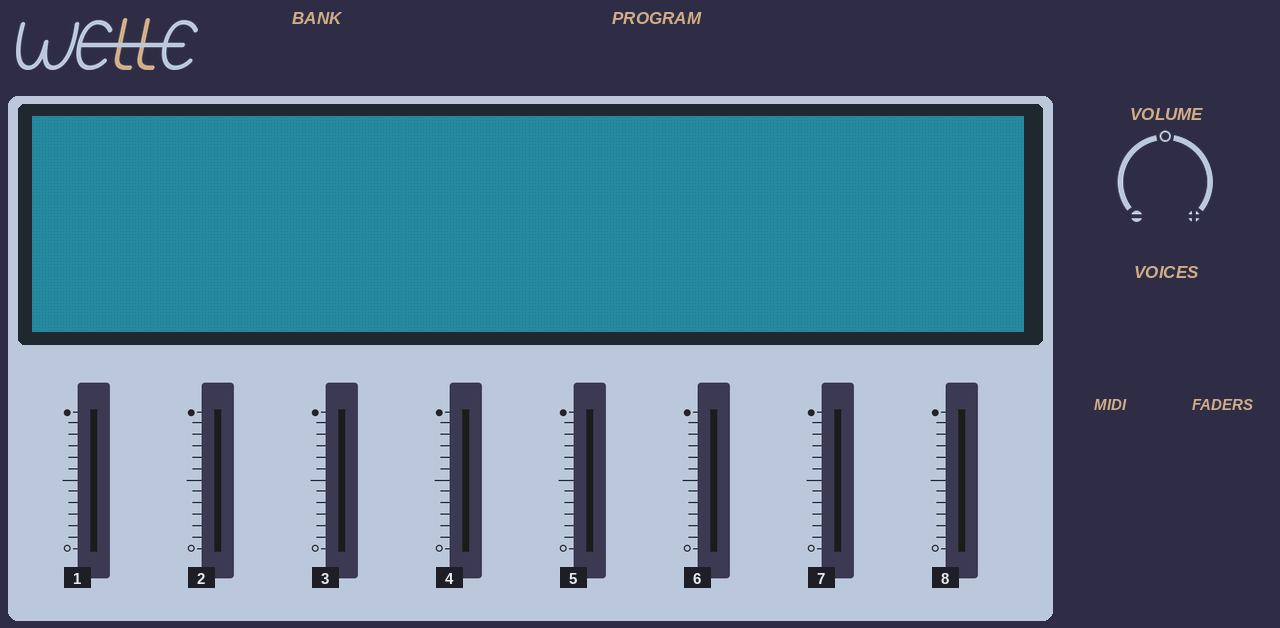
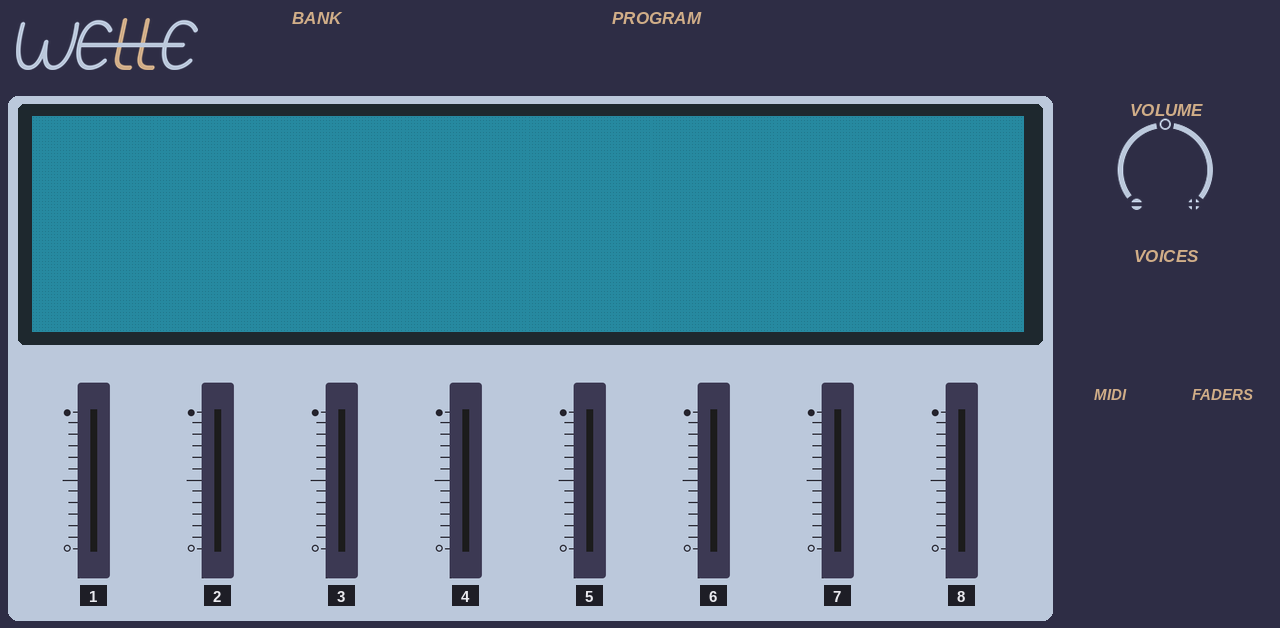
MAIN: fader numbers under the slots, right column respaced, red volume knob and PANIC button
Claude-Session: https://claude.ai/code/session_01CpoP2srjV7KtCH1iUa1sg5

diff --git a/tools/make_skin.py b/tools/make_skin.py
@@ -207,6 +207,9 @@ for ln in range(8):
                              % (x + 6 + w // 2, LY0 + ln * LH + LH // 2 + Y86, w, LH, key, ln + 1, c + 1, col))
 # the performance faders in the panel's fader slots (cut from the Wave Emulation panel), its Slider.svg as the cap
 SLOT = Image.open(os.path.join(PARTS, "fader_slot.png")).convert("RGB")
+_sd = ImageDraw.Draw(SLOT)                      # paint out the panel's own "1" box (each fader gets its number below)
+_sd.rectangle((0, 326, 33, SLOT.height), fill=SLOT.getpixel((5, 5)))
+_sd.rectangle((34, 318, 48, 344), fill=SLOT.getpixel((42, 200)))
 K = 0.58
 slot = SLOT.resize((int(SLOT.width * K), int(SLOT.height * K)), Image.LANCZOS)
 thumb = Image.open(os.path.join(PARTS, "fader_thumb.png")).convert("RGBA")
@@ -218,24 +221,30 @@ for i, k in enumerate(FADERS):
     cx = LX0 + (2 * i + 1) * CW // 2
     sx = int(cx - 61.5 * K)
     p.im.paste(slot, (sx, SY))
-    nx, ny = sx + int(14 * K), SY + int(330 * K)
+    nx, ny = cx - 12, SY + slot.height + 4                 # the number under the slot, clear of the cap
     p.d.rectangle((nx - 2, ny - 2, nx + 24, ny + 18), fill=(30, 30, 38))
     p.d.text((nx + 11, ny + 1), str(i + 1), font=F(15), fill=WHITE, anchor="ma")
     top, bot = SY + int(54 * K), SY + int(300 * K)
     p.widgets.append('slider_v cx=%d cy=%d w=%d h=%d label="" key=%s img=images/fader_cap.png base=images/clear.png ns=0 vs=0'
                      % (cx, (top + bot) // 2 + Y86, thumb.width, bot - top + thumb.height, k))
-# system column
-p.d.text((1166, 104), "VOLUME", font=F(17, TITLE), fill=TAN, anchor="ma")
-stamp_ring(p, 1166, 180, 32)
-p.widgets.append('knob cx=1166 cy=%d r=32 label="" key=gain ns=0 vs=18 vy=20 bw=120' % (180 + Y86))
-p.d.text((1166, 262), "VOICES", font=F(17, TITLE), fill=TAN, anchor="ma")
-p.widgets.append('enum_v cx=1166 cy=%d label="" key=voices sw=110 sh=36' % (346 + Y86))
-p.d.text((1110, 382), "MIDI", font=F(15, TITLE), fill=TAN, anchor="ma")
-p.widgets.append('enum_v cx=1110 cy=%d label="" key=midi_mode sw=100 sh=32' % (452 + Y86))
-p.d.text((1222, 382), "FADERS", font=F(15, TITLE), fill=TAN, anchor="ma")
-p.widgets.append('enum_v cx=1222 cy=%d label="" key=fader_mode sw=100 sh=32' % (452 + Y86))
-p.widgets.append('button cx=1110 cy=%d w=104 h=40 label="PANIC" key=all_notes_off' % (550 + Y86))
-p.widgets.append('button cx=1222 cy=%d w=104 h=40 label="RELOAD" key=init_patch' % (550 + Y86))
+# system column: the volume as the Wave's big red knob, PANIC in its red (the OK / Store red)
+p.d.text((1166, 100), "VOLUME", font=F(17, TITLE), fill=TAN, anchor="ma")
+stamp_ring(p, 1166, 168, 32)
+p.widgets.append('knob cx=1166 cy=%d r=32 label="" key=gain ns=0 vs=18 vy=20 bw=120 strip=images/knob_red.png' % (168 + Y86))
+p.d.text((1166, 246), "VOICES", font=F(17, TITLE), fill=TAN, anchor="ma")
+p.widgets.append('enum_v cx=1166 cy=%d label="" key=voices sw=110 sh=30' % (314 + Y86))
+p.d.text((1110, 386), "MIDI", font=F(15, TITLE), fill=TAN, anchor="ma")
+p.widgets.append('enum_v cx=1110 cy=%d label="" key=midi_mode sw=100 sh=30' % (438 + Y86))
+p.d.text((1222, 386), "FADERS", font=F(15, TITLE), fill=TAN, anchor="ma")
+p.widgets.append('enum_v cx=1222 cy=%d label="" key=fader_mode sw=100 sh=30' % (438 + Y86))
+red = Image.new("RGBA", (104, 40), (0, 0, 0, 0))
+ImageDraw.Draw(red).rounded_rectangle((0, 0, 103, 39), 8, fill=(218, 46, 46), outline=(193, 49, 60), width=2)
+red.save(os.path.join(OUT, "images", "btn_red.png"))
+redon = Image.new("RGBA", (104, 40), (0, 0, 0, 0))
+ImageDraw.Draw(redon).rounded_rectangle((0, 0, 103, 39), 8, fill=(255, 120, 110), outline=(193, 49, 60), width=2)
+redon.save(os.path.join(OUT, "images", "btn_red_on.png"))
+p.widgets.append('button cx=1110 cy=%d w=104 h=40 label="PANIC" key=all_notes_off img=images/btn_red.png img_on=images/btn_red_on.png' % (540 + Y86))
+p.widgets.append('button cx=1222 cy=%d w=104 h=40 label="RELOAD" key=init_patch' % (540 + Y86))
 p.widgets.append('readout cx=1166 cy=%d w=200 h=26 label="" key=engine_stats box=0 tsize=13 tcolor=bbc8db tweight=700' % (600 + Y86))
 p.done()
 
